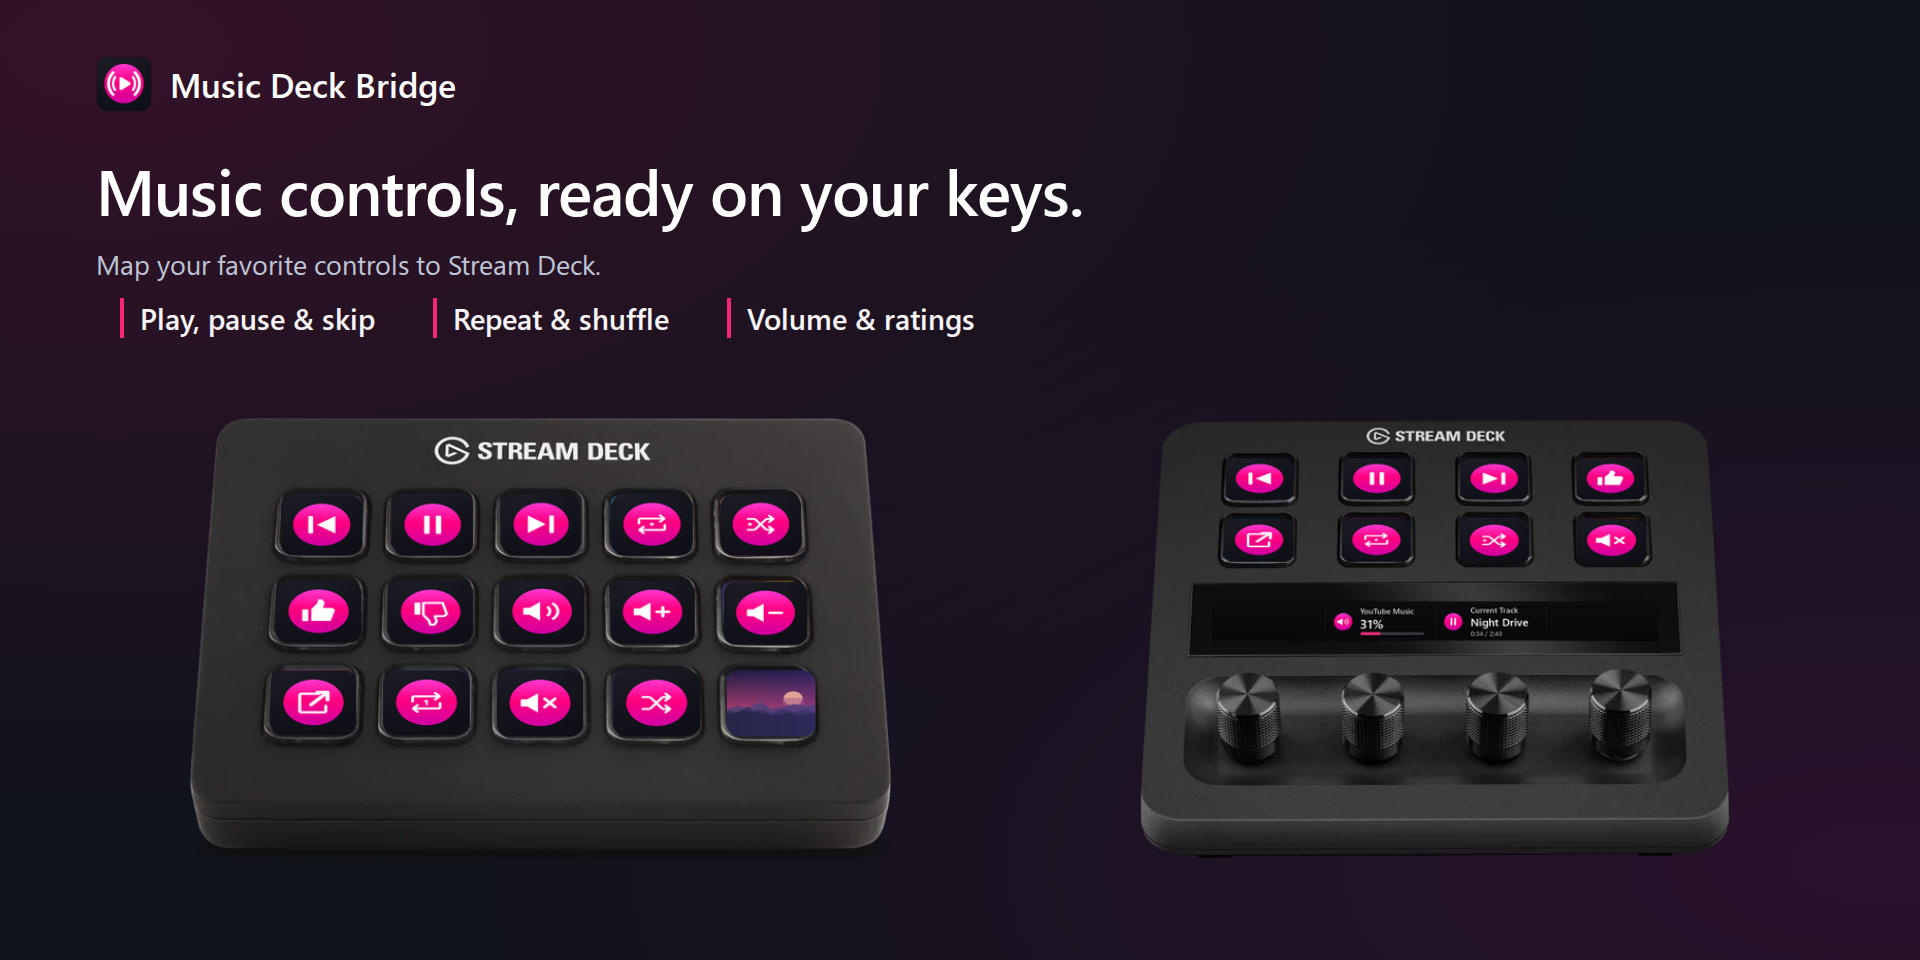
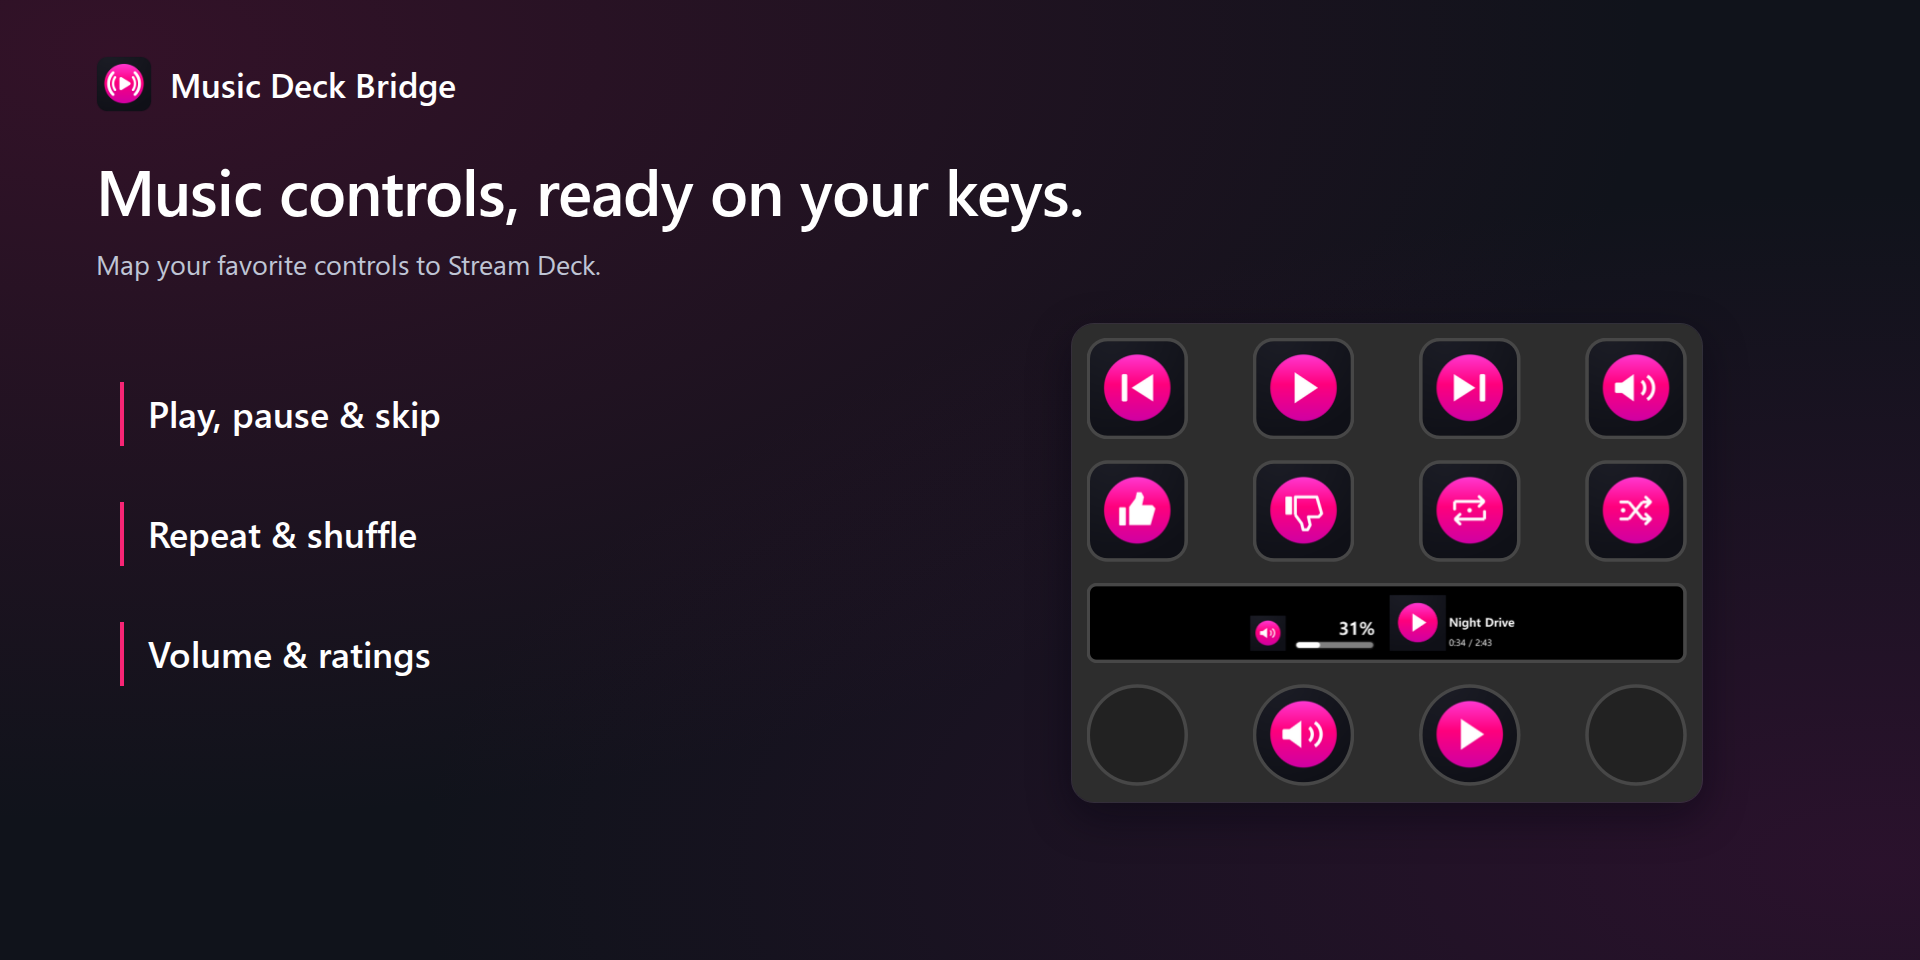
docs: use native Stream Deck profile captures in the gallery

diff --git a/store-assets/drafts/v1.3.0/README.md b/store-assets/drafts/v1.3.0/README.md
@@ -17,13 +17,13 @@ Elgato Maker Console에는 [제품 설명](elgato-en.txt)과 [What's new](elgato
 
 Chrome 이미지 두 장은 `394b941`과 동일한 제품 소스의 임시 1.3.0 출시 빌드에 샘플 곡을 표시한 결과입니다. 320 × 551 픽셀의 팝업을 배율 1에서 캡처해 내보냈고, 앨범 이미지 영역에는 프로젝트 아이콘을 넣었습니다. [Chrome 스크린샷 기준](https://developer.chrome.com/docs/webstore/images#screenshots)
 
-Elgato 갤러리 초안은 모두 영어 1920 × 960 PNG입니다. 공개 갤러리의 배경과 제목 스타일을 따르고, Elgato 제품 이미지에 실제 플러그인 아이콘과 예시 앨범 이미지를 합성했습니다. 제품 아이콘은 [기존 288 × 288 PNG](../../elgato/listing/app-icon-288.png)를 사용합니다. [Elgato 갤러리 기준](https://docs.elgato.com/guidelines/products/#gallery) · [이미지 출처 및 검증](../../../docs/verification/media.md#november-28-revised-130-elgato-gallery)
+Elgato 갤러리 초안은 모두 영어 1920 × 960 PNG입니다. 공개 갤러리의 배경과 제목 스타일을 따르고, Stream Deck 앱이 직접 표시한 키·다이얼 배치를 캡처해 사용했습니다. 제품 아이콘은 [기존 288 × 288 PNG](../../elgato/listing/app-icon-288.png)를 사용합니다. [Elgato 갤러리 기준](https://docs.elgato.com/guidelines/products/#gallery) · [이미지 출처 및 검증](../../../docs/verification/media.md#november-28-revised-130-elgato-gallery)
 
 1. [제품 소개](elgato-gallery-01-overview-1920x960.png) — Stream Deck 플러그인과 Chrome 확장 프로그램을 `+`로 묶고 `→`로 YouTube Music과 연결합니다.
-2. [Stream Deck 키 기능](elgato-gallery-02-controls-1920x960.png) — MK.2와 Stream Deck +의 재생, 반복·셔플, 볼륨·평가 매핑 예시.
+2. [Stream Deck 키 기능](elgato-gallery-02-controls-1920x960.png) — Stream Deck 앱의 재생, 반복·셔플, 볼륨·평가 매핑과 두 다이얼 표시.
 3. [연결 방법](elgato-gallery-03-connection-1920x960.png) — Stream Deck의 Chrome 연결·로컬 서버 포트, Chrome 확장의 연결 설정, YouTube Music 브라우저를 순서대로 보여줍니다. 두 설정 화면에는 동일한 예시 PIN과 포트를 표시합니다.
 4. [Chrome 단독 제어](elgato-gallery-04-chrome-1920x960.png) — 확장 팝업과 YouTube Music 브라우저를 함께 보여줍니다.
-5. [연결 앨범 이미지](elgato-gallery-05-linked-artwork-1920x960.png) — MK.2의 15개 키와 XL의 32개 키에 각각 하나의 앨범 이미지를 연결한 예시.
+5. [연결 앨범 이미지](elgato-gallery-05-linked-artwork-1920x960.png) — 여덟 개 키 전체에 하나의 예시 앨범 이미지를 연결한 Stream Deck 앱 배치.
 
 Chrome의 권한 및 호스트 범위는 1.2.0과 동일합니다. 개인정보 양식은 이번 버전이 마지막 곡 한 개와 플레이어 상태를 로컬에 보존하고 Google·YouTube 이미지 서버에서 앨범 이미지를 가져오는 동작을 반영해야 합니다. [개인정보 처리방침](../../../PRIVACY.md)
 

diff --git a/docs/verification/media.md b/docs/verification/media.md
@@ -39,7 +39,7 @@ Separately, on Windows Stream Deck 7.6.1.23033 with build `394b941`, the existin
 
 ## November 28 revised 1.3.0 Elgato gallery
 
-The [five revised gallery drafts](../../store-assets/drafts/v1.3.0/README.md) use the layout, background colors and typography of the [published Marketplace gallery](https://marketplace.elgato.com/product/music-deck-bridge-044e81d9-9671-4277-bcb9-ce8b6d38c3fd). The Stream Deck MK.2, Stream Deck + and Stream Deck XL product images come from [Elgato's device guide](https://www.elgato.com/us/en/explorer/products/stream-deck/which-stream-deck-should-you-get/). Packaged action icons and an original sample cover were composited onto the key displays. The Stream Deck + composite maps the volume and track readouts to four measured LCD corners and retains the stock glass and bezel outside the display. The linked artwork example uses distinct crops of the original cover across all 15 MK.2 and 32 XL keys. The key-control and linked-artwork slides omit model-name captions.
+The [five revised gallery drafts](../../store-assets/drafts/v1.3.0/README.md) use the layout, background colors and typography of the [published Marketplace gallery](https://marketplace.elgato.com/product/music-deck-bridge-044e81d9-9671-4277-bcb9-ce8b6d38c3fd). The earlier product-photo composites are recorded at `40b4245`. The current drafts use Windows Stream Deck 7.6.1.23033 profile captures with the installed `394b941` plugin and a Stream Deck Plus. The [mapped controls and dials](../../store-assets/drafts/v1.3.0/media/stream-deck-controls-profile.png) and the [all-eight-key linked artwork](../../store-assets/drafts/v1.3.0/media/stream-deck-linked-artwork-profile.png) were rendered by the running plugin using the original sample cover and playback data. The source captures are cropped at native size, and pixel comparisons check the visible profile area in each exported gallery image.
 
 The two playback popup panels were captured from the bundle's English UI with sample playback in paired and standalone modes. The connection slide captures the bundled property inspector and popup settings using sample PIN `123456` and default port `17864`. The YouTube Music panel uses cropped Chrome and YouTube Music UI from a designated Windows playback window with the same original cover and sample title composited into it. Account controls, bookmarks and the original album cover were kept outside the export. The five English RGB PNGs were checked at 1920 × 960 and visually reviewed against the published design.
 
